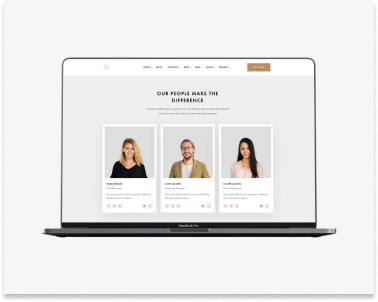
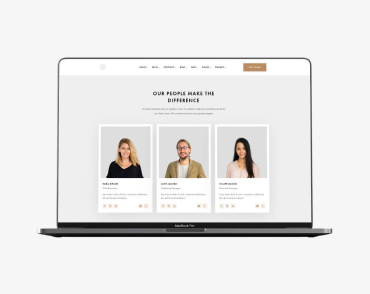
Add all flexes

diff --git a/css/styles.css b/css/styles.css
@@ -37,7 +37,7 @@ ul,
 ol {
   padding: 0;
 }
-/* Контейнер */
+/* Контейнеры */
 .container {
   width: 1200px;
   padding-left: 15px;
@@ -46,10 +46,18 @@ ol {
   margin-right: auto;
 }
 
+.section {
+  padding-top: 94px;
+  padding-bottom: 94px;
+}
+
 /* Хедер */
 .header {
   display: flex;
   align-items: center;
+  border-bottom: 1px solid #ececec;
+  padding-top: 0px;
+  padding-bottom: 0px;
 }
 /* Лого */
 .logo-primary,
@@ -71,6 +79,8 @@ ol {
 .nav {
   display: flex;
   align-items: center;
+  padding-top: 0px;
+  padding-bottom: 0px;
 }
 
 .nav-main {
@@ -81,6 +91,8 @@ ol {
 .nav-list {
   display: flex;
   margin-left: 93px;
+  margin-top: 0px;
+  margin-bottom: 0px;
 }
 .nav-link:not(:last-child) {
   margin-right: 50px;
@@ -99,7 +111,7 @@ ol {
   text-decoration: none;
   display: block;
   padding-top: 32px;
-  padding-bottom: 32px;
+  padding-bottom: 31px;
 }
 .nav-link-txt:focus,
 .nav-link-txt:hover {
@@ -174,18 +186,31 @@ ol {
   background-color: var(--accent-color);
   cursor: pointer;
   margin: 0px auto;
-  margin-bottom: 0px;
   min-width: 200px;
   height: 50px;
+  border: 1px solid transparent;
+  border-radius: 4px;
 }
 .hero-btn:hover,
 .hero-btn:focus {
   background-color: var(--hero-btn-accent);
+  border: 1px solid var(--accent-color);
+  border-radius: 4px;
 }
 
 /* Наши особенности */
+.features-list {
+  display: flex;
+  align-items: center;
+  justify-content: center;
+}
+.features-item:not(:last-child) {
+  margin-right: 30px;
+}
+
 .features-item {
   list-style-type: none;
+  width: 270px;
 }
 .features-caption {
   font-size: 14px;
@@ -198,13 +223,33 @@ ol {
   color: var(--secondary-font-color);
 }
 /* Чем мы занимаемся */
+.about {
+  padding-top: 0px;
+  text-align: center;
+}
 .about-list {
   list-style-type: none;
+  margin-top: 50px;
+  margin-bottom: 0px;
+}
+.about-list {
+  display: flex;
+  align-content: center;
+}
+.about-item:not(:last-child) {
+  margin-right: 30px;
 }
 /* Наша команда */
 .team {
   background-color: var(--third-bg-color);
+  text-align: center;
 }
+.team-list {
+  display: flex;
+  align-items: center;
+  margin-top: 30px;
+}
+
 .about-title,
 .team-title {
   font-weight: bold;
@@ -215,6 +260,10 @@ ol {
 .team-list {
   list-style-type: none;
 }
+.team-card:not(:last-child) {
+  margin-right: 30px;
+}
+
 .team-card-name {
   font-weight: 500;
   font-size: 16px;
@@ -230,6 +279,9 @@ ol {
 /* Футер */
 .footer {
   background-color: var(--secondary-bg-color);
+  text-align: left;
+  padding-top: 60px;
+  padding-bottom: 60px;
 }
 .footer-logo-prim,
 .footer-logo-sec {
@@ -242,9 +294,13 @@ ol {
 }
 .footer-logo {
   text-decoration: none;
+  margin-left: 0px;
 }
 .footer-logo-sec {
   color: var(--sec-bg-font-color);
+}
+.address {
+  margin-left: 0px;
 }
 .address-item {
   list-style-type: none;
@@ -278,6 +334,11 @@ ol {
 /* Портфолио */
 .portfolio-list {
   list-style-type: none;
+  display: flex;
+  flex-wrap: wrap;
+  align-content: center;
+  justify-content: center;
+  margin-bottom: 34px;
 }
 .portfolio-btn {
   font-family: var(--main-font);
@@ -288,13 +349,35 @@ ol {
   text-align: center;
   letter-spacing: 0.03em;
   color: var(--main-font-color);
+  padding: 5px 21px;
+  min-width: 128px;
+  border: 1px solid transparent;
+  border-radius: 4px;
 }
+.list-btn:not(:last-child) {
+  margin-right: 8px;
+}
+
 .portfolio-btn:hover,
 .portfolio-btn:focus {
   color: #ffffff;
   background-color: var(--accent-color);
   cursor: pointer;
+  border: 1px solid var(--accent-color);
 }
+
+.portfolio-item {
+  width: 370px;
+  margin-right: 30px;
+  margin-bottom: 30px;
+}
+.portfolio-item:nth-child(3n) {
+  margin-right: 0px;
+}
+.portfolio-item:nth-last-child(-n + 3) {
+  margin-bottom: 0px;
+}
+
 .portfolio-card {
   text-decoration: none;
 }

diff --git a/portfolio.html b/portfolio.html
@@ -19,35 +19,37 @@
 </head>
 
 <body class="page">
-
-<body>
 	<!-- Хедер -->
 	<header class="header">
-		<nav class="nav">
-			<a class="header-logo" href="./index.html" lang="en"> <span class="logo-primary">Web</span><span
-					class="logo-secondary">Studio</span></a>
-			<ul class="nav-list">
-				<li class="nav-link"><a class="nav-link-txt" href="./index.html">Студия</a></li>
-				<li class="nav-link"><a class="nav-link-txt" href="./portfolio.html">Портфолио</a></li>
-				<li class="nav-link"><a class="nav-link-txt" href="">Контакты</a></li>
+		<div class="container nav-main">
+			<nav class="nav">
+				<a class="header-logo" href="./index.html" lang="en"> <span class="logo-primary">Web</span><span
+						class="logo-secondary">Studio</span></a>
+				<ul class="nav-list">
+					<li class="nav-link"><a class="nav-link-txt" href="./index.html">Студия</a></li>
+					<li class="nav-link"><a class="nav-link-txt" href="./portfolio.html">Портфолио</a></li>
+					<li class="nav-link"><a class="nav-link-txt" href="">Контакты</a></li>
+				</ul>
+			</nav>
+			<ul class="auth-nav">
+				<li class="outh-link"><a class="header-mail" href="mailto:info@devstudio.com">info@devstudio.com</a>
+				</li>
+				<li class="outh-link"><a class="header-phone" href="tel:+380961111111">+38 096 111 11 11</a></li>
 			</ul>
-		</nav>
-		<ul class="auth-nav">
-			<li class="outh-link"><a class="header-mail" href="mailto:info@devstudio.com">info@devstudio.com</a></li>
-			<li class="outh-link"><a class="header-phone" href="tel:+380961111111">+38 096 111 11 11</a></li>
-		</ul>
+		</div>
 	</header>
 	<!-- Уникальный контент -->
 	<main>
 		<!-- Фильтр страницы "Портфолио" -->
-		<section class="portfolio">
+		<section class="portfolio section">
+			<div class="container">
 			<h1 class="portfolio-title">Портфолио</H1>
 			<ul class="portfolio-list">
-				<li><button class="portfolio-btn" type="button">Все</button></li>
-				<li><button class="portfolio-btn" type="button">Веб-сайты</button></li>
-				<li><button class="portfolio-btn" type="button">Приложения</button></li>
-				<li><button class="portfolio-btn" type="button">Дизайн</button></li>
-				<li><button class="portfolio-btn" type="button">Маркетинг</button></li>
+				<li class="list-btn"><button class="portfolio-btn" type="button">Все</button></li>
+				<li class="list-btn"><button class="portfolio-btn" type="button">Веб-сайты</button></li>
+				<li class="list-btn"><button class="portfolio-btn" type="button">Приложения</button></li>
+				<li class="list-btn"><button class="portfolio-btn" type="button">Дизайн</button></li>
+				<li class="list-btn"><button class="portfolio-btn" type="button">Маркетинг</button></li>
 			</ul>
 			<!-- Портфолио -->
 			<ul class="portfolio-list">
@@ -115,10 +117,12 @@
 					</a>
 				</li>
 			</ul>
+			</div>
 		</section>
 	</main>
 	<!-- Футер -->
-	<footer class="footer">
+<footer class="footer">
+	<div class="container">
 		<a class="footer-logo" href="./index.html"> <span class="footer-logo-prim">Web</span><span
 				class="footer-logo-sec">Studio</span> </a>
 		<address class="address">
@@ -135,6 +139,7 @@
 				</li>
 			</ul>
 		</address>
-	</footer>
+	</div>
+</footer>
 </body>
 </html>

diff --git a/index.html b/index.html
@@ -43,7 +43,8 @@
         </div>
 		</section>
 			<!-- Секция Наши особенности -->
-		<section class="features">
+		<section class="features section">
+			<div class="container">
 			<h2 class="features-title">Наши особенности</h2>
 			<ul class="features-list">
 				<li class="features-item">
@@ -63,8 +64,11 @@
 					<p class="features-text">Значимость этих проблем настолько очевидна, что реализация плановых заданий.</p>
 				</li>
 			</ul>
+			</div>
 			</section>
-			<section class="about">
+			<!-- Секция Чем мы занимаемся -->
+			<section class="about section">
+			<div class="container">
 			<h2 class="about-title">Чем мы занимаемся</h2>
 			<ul class="about-list">
 				<li class="about-item">
@@ -77,9 +81,11 @@
 					<img class="about-img" src="./images/box3.jpg" alt="работа с планшетом" width="370" height="294">
 				</li>
 			</ul>
+			</div>
 		</section>
 		<!-- Секция наша команда -->
-		<section class="team">
+		<section class="team section">
+			<div class="container">
 			<h2 class="team-title">Наша команда</h2>
 			<ul class="team-list">
 				<li class="team-card">
@@ -103,10 +109,12 @@
 					<p class="team-card-txt" lang="en">UI Designer</p>
 				</li>
 			</ul>
+			</div>
 		</section>
 	</main>
 	<!-- Футер -->
 	<footer class="footer">
+		<div class="container">
 		<a class="footer-logo" href="./index.html"> <span class="footer-logo-prim">Web</span><span class="footer-logo-sec">Studio</span> </a>
 		<address class="address">
 		<ul class="address-list">
@@ -121,6 +129,7 @@
 			</li>
 		</ul>
 		</address>
+		</div>
 	</footer>
 </body>
 </html>
